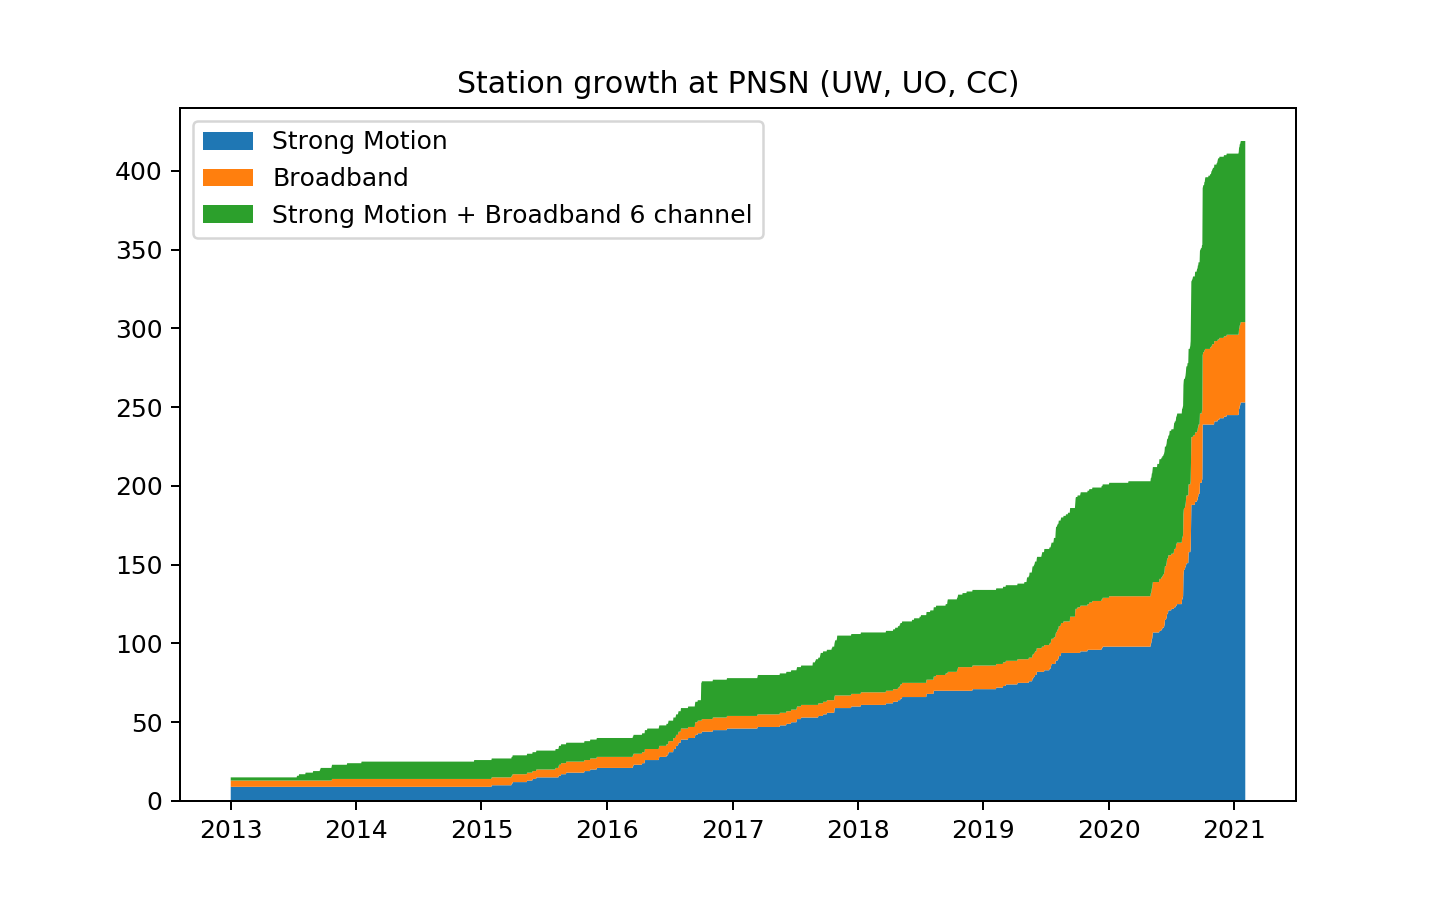
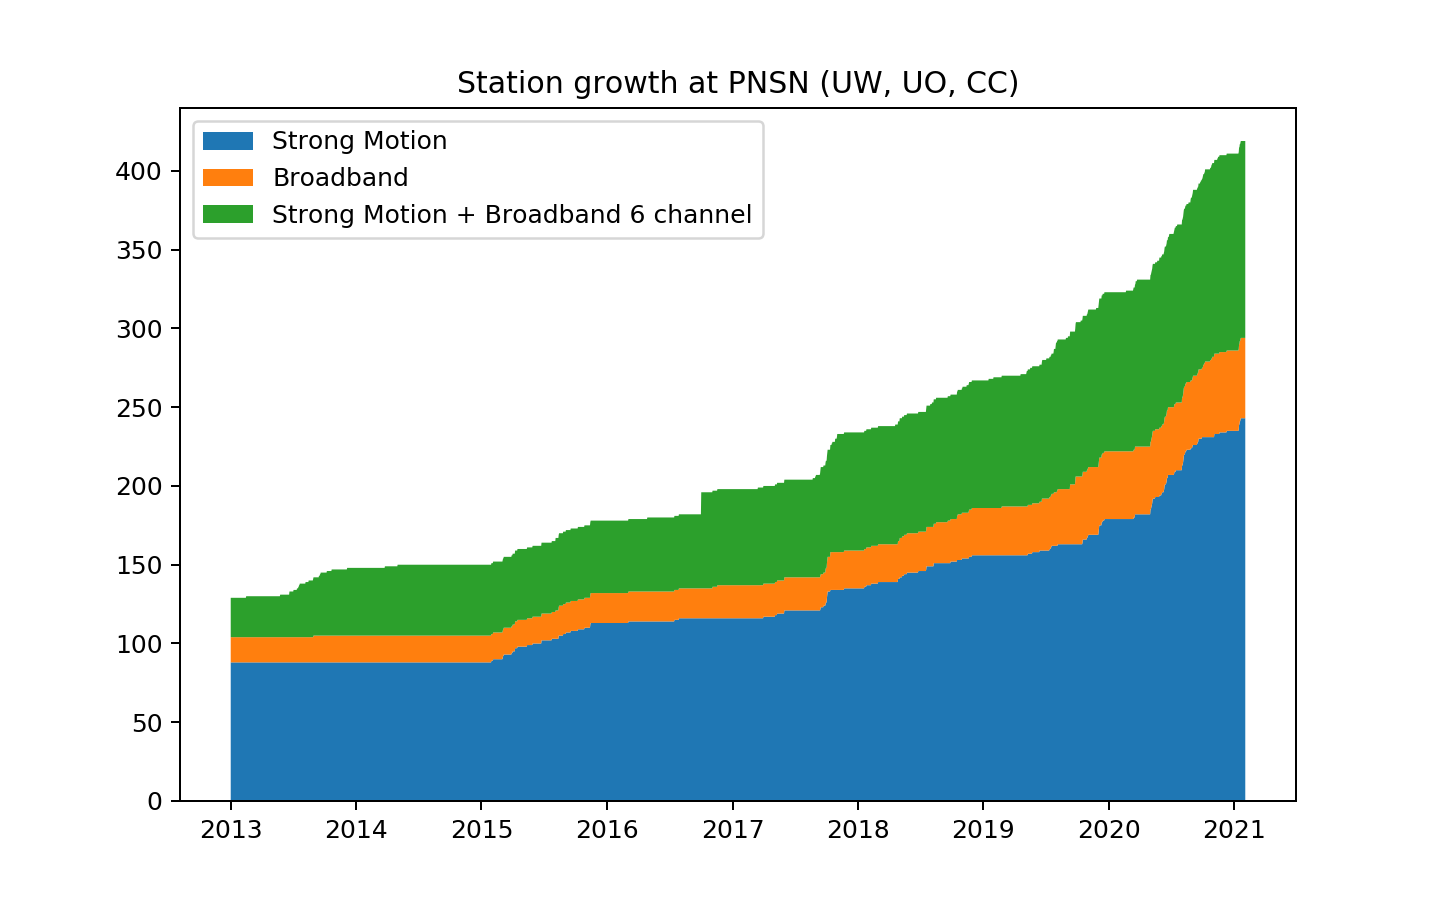
fixed bug

Changed region(s): [[0.1562, 0.1867, 0.875, 0.9022]]

diff --git a/stations_through_time.py b/stations_through_time.py
@@ -27,7 +27,7 @@ for line in f.iter_lines():
 nowtime = datetime.datetime.now()
 dict_SMA = {}
 dict_BB = {}
-url = 'http://service.iris.edu/fdsnws/station/1/query?level=channel&network=_PACNW&starttime=2100-01-01T00:00:00&format=text'
+url = 'http://service.iris.edu/fdsnws/station/1/query?level=channel&network=_PACNW&endtime=2100-01-01T00:00:00&format=text'
 f = requests.get(url)
 n = 0
 for line in f.iter_lines():
@@ -38,7 +38,7 @@ for line in f.iter_lines():
         net = line.split('|')[0]
         sta = line.split('|')[1]
         cha = line.split('|')[3]
-        if ( sta[0:1] != 'Q' and cha[0:2] in [ 'EN', 'HN', 'BH', 'HH' ] ):
+        if ( sta[0:1] != 'Q' and cha[0:3] in [ 'ENZ', 'HNZ', 'BHZ', 'HHZ' ] ):
             lat = line.split('|')[4]
             lon = line.split('|')[5]
             try:
@@ -47,20 +47,29 @@ for line in f.iter_lines():
             except:
                 endT = datetime.datetime(2100,1,1,0,0,0)
             print(net, sta, cha, lat, lon, startT, endT )
-            if ( cha[0:2] in [ 'EN', 'HN' ] ):
+            if ( cha[0:3] in [ 'ENZ', 'HNZ' ] ):
                 if ( sta in dict_SMA ):
                     if ( startT < dict_SMA[sta][0] ):
-                        dict_SMA[sta] = [ startT, net ]
+                        dict_SMA[sta][0] = startT
+                        if ( sta == 'NOWS' ):
+                            print(dict_SMA[sta] )
+                    if ( endT > dict_SMA[sta][1] ):
+                        dict_SMA[sta][1] = endT
+                        if ( sta == 'NOWS' ):
+                            print(dict_SMA[sta] )
                 else:
-                    dict_SMA[sta] = [ startT, net ]
-            if ( cha[0:2] in [ 'BH', 'HH' ] ):
+                    dict_SMA[sta] = [ startT, endT, net ]
+            if ( cha[0:3] in [ 'BHZ', 'HHZ' ] ):
                 if ( sta in dict_BB ):
                     if ( startT < dict_BB[sta][0] ):
-                        dict_BB[sta] = [ startT, net ]
+                        dict_BB[sta][0] = startT
+                    if ( endT > dict_BB[sta][1] ):
+                        dict_BB[sta][1] = endT
                 else:
-                    dict_BB[sta] = [ startT, net ]
+                    dict_BB[sta] = [ startT, endT, net ]
+            if ( sta == 'NOWS' ):
+                print('XXXX ', startT, endT, cha, dict_SMA[sta] )
 
-print(len(dict_BB),len(dict_SMA))
 
 ndays =  (nowtime - datetime.datetime(2013,1,1,0,0,0)).days
 print(ndays)
@@ -80,24 +89,24 @@ for n in range(0,ndays):
     BBcount = {'UW':0,'UO':0,'CC':0}#,'IU':0,'US':0,'OO':0,'BK':0}
     sixchancount = {'UW':0,'UO':0,'CC':0}#,'IU':0,'US':0,'OO':0,'BK':0} 
     for sta in dict_SMA:
-        net = dict_SMA[sta][1]
-        if ( dict_SMA[sta][0] < thisday and net in nets ):
+        net = dict_SMA[sta][2]
+        if ( dict_SMA[sta][0] < thisday and dict_SMA[sta][1] > nowtime and net in nets ):
             SMAcount[net] +=1
     for sta in dict_BB:
-        net = dict_BB[sta][1]
+        net = dict_BB[sta][2]
         if ( sta in dict_SMA ):
-            if ( dict_SMA[sta][0] < thisday and net in nets ):
+            if ( dict_SMA[sta][0] < thisday and dict_SMA[sta][1] > nowtime and net in nets ):
                 sixchancount[net] += 1
-                SMAcount[net] -=1
+                SMAcount[net] += -1
         else:
-            if ( dict_BB[sta][0] < thisday and net in nets ):
+            if ( dict_BB[sta][0] < thisday and dict_BB[sta][1] > nowtime and net in nets ):
                 BBcount[net] +=1
 
     ySMA.append(sum(SMAcount.values()))
     yBB.append(sum(BBcount.values()))
     ysixchan.append(sum(sixchancount.values()))
     ytotal.append(sum(BBcount.values()) + sum(SMAcount.values()) + sum(sixchancount.values()) )
-##    print(thisday,SMAcount['UW'], sum(BBcount.values()) )
+    print(thisday,SMAcount['UO'], BBcount['UO'], sixchancount['UO'], sum(BBcount.values()) )
 
 ystack = [ ySMA, yBB, ysixchan ]
 figname = 'stations_through_time.png'
